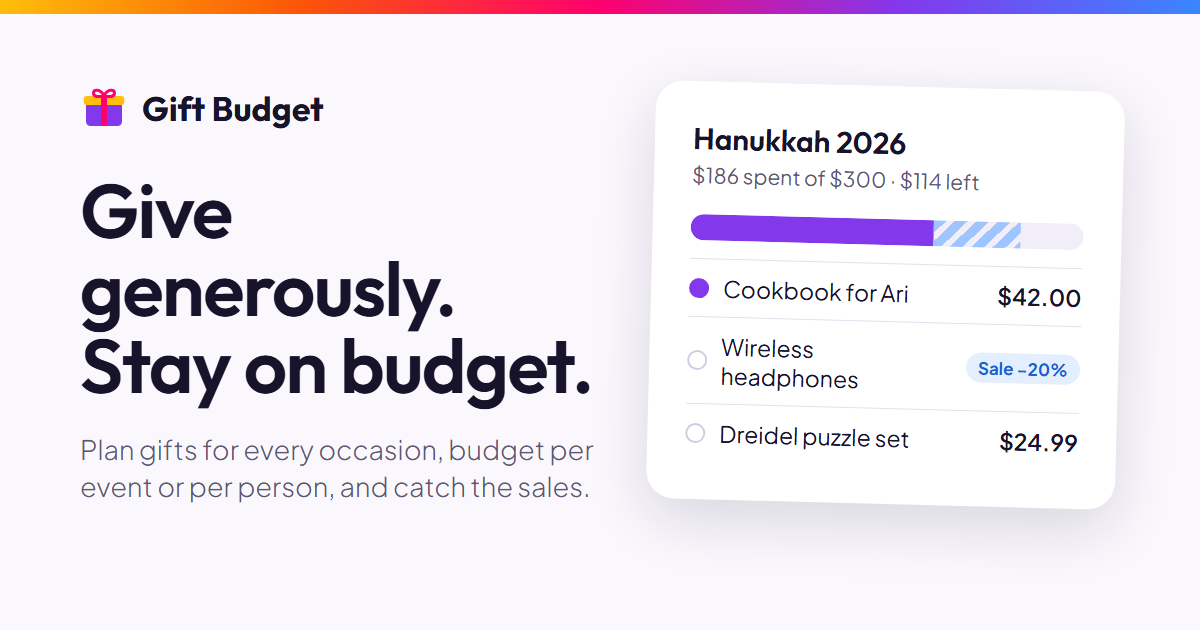
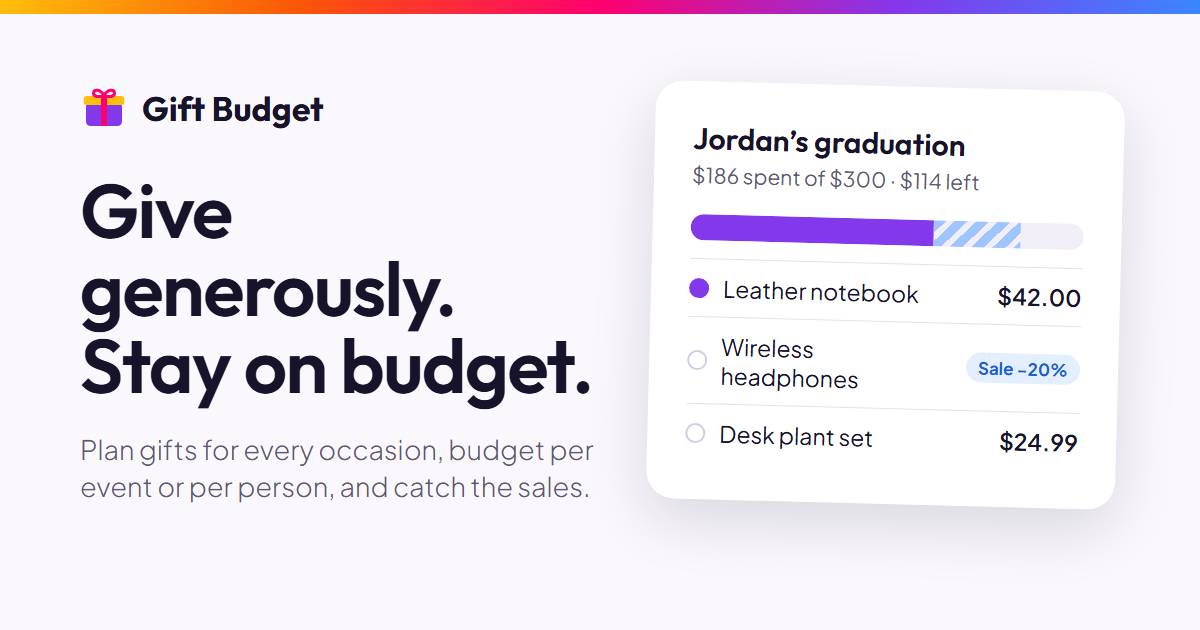
Use non-religious occasions in the home page card and link preview

Changed region(s): [[0.555, 0.2111, 0.8017, 0.2714], [0.6167, 0.6635, 0.7708, 0.7238], [0.5858, 0.4524, 0.7708, 0.4825]]

diff --git a/scripts/og-image.html b/scripts/og-image.html
@@ -34,12 +34,12 @@
       <p>Plan gifts for every occasion, budget per event or per person, and catch the sales.</p>
     </div>
     <div class="card">
-      <div class="t">Hanukkah 2026</div>
+      <div class="t">Jordan&#8217;s graduation</div>
       <div class="s">$186 spent of $300 · $114 left</div>
       <div class="bar"><div class="fill"></div><div class="plan"></div></div>
-      <div class="row"><span class="dot done"></span>Cookbook for Ari<b>$42.00</b></div>
+      <div class="row"><span class="dot done"></span>Leather notebook<b>$42.00</b></div>
       <div class="row"><span class="dot"></span>Wireless headphones<span class="sale">Sale −20%</span></div>
-      <div class="row"><span class="dot"></span>Dreidel puzzle set<b>$24.99</b></div>
+      <div class="row"><span class="dot"></span>Desk plant set<b>$24.99</b></div>
     </div>
   </div>
 </body>

diff --git a/js/app.js b/js/app.js
@@ -400,7 +400,7 @@ function homePage() {
         <div class="hero-cta">${cta}</div>
       </div>
       <div class="hero-card" aria-hidden="true">
-        <div class="hc-title">Christmas ${new Date().getFullYear()}</div>
+        <div class="hc-title">Maya's birthday</div>
         <div class="hc-sub">$268 spent of $350 · $82 left</div>
         <div class="bar lg ok"><div class="bar-fill" style="width:62%"></div><div class="bar-planned" style="left:62%;width:22%"></div></div>
         <ul class="hc-list">
